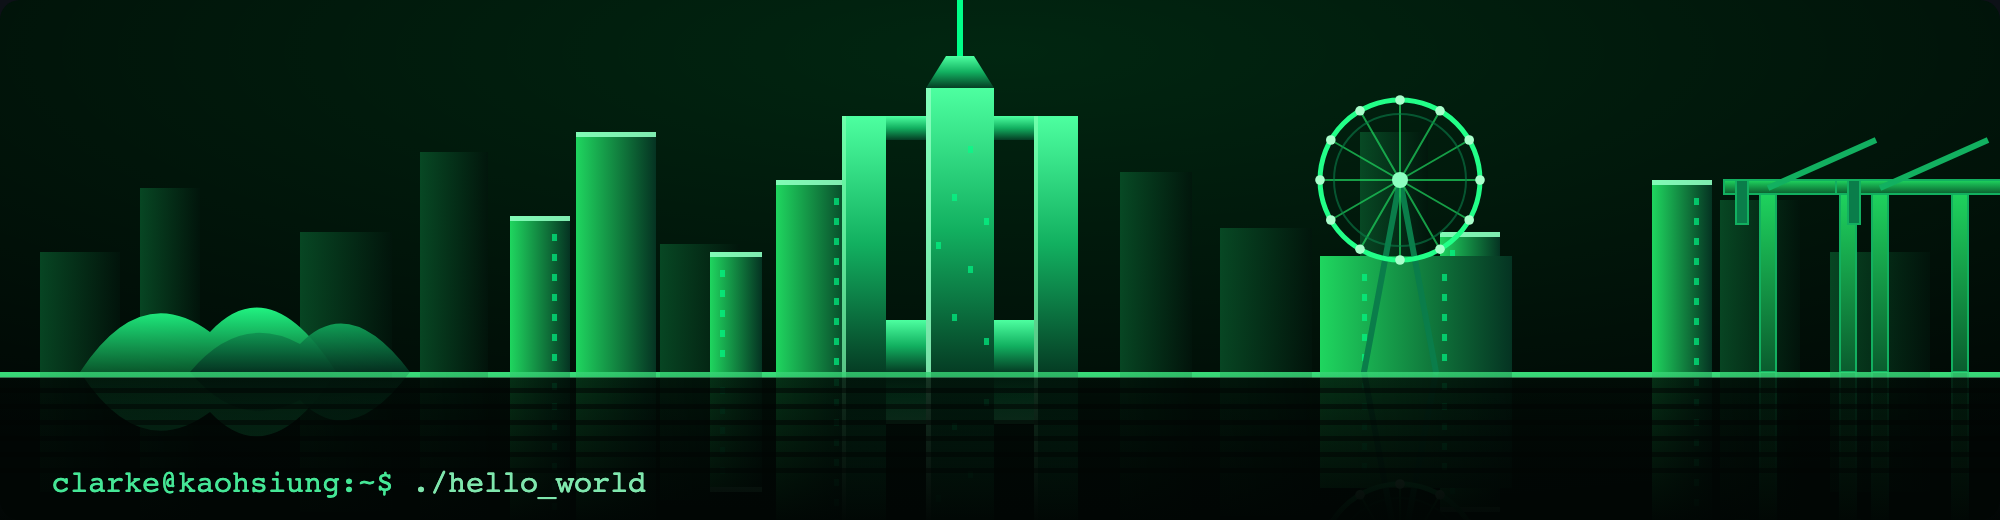
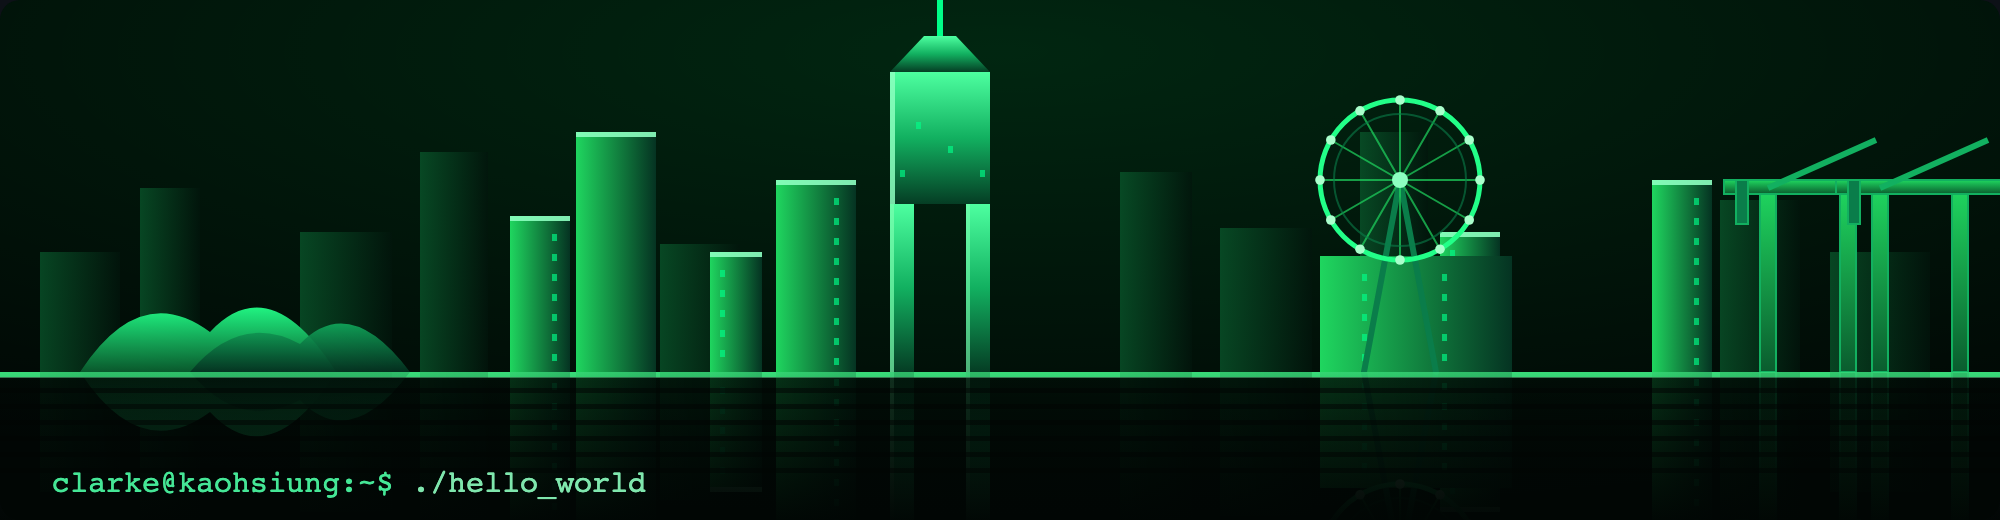
Redesign 85 Sky Tower silhouette (single shaft splitting into two legs with central void)

Changed region(s): [[0.403, 0.0, 0.558, 0.7385], [0.496, 0.7692, 0.527, 0.8308], [0.434, 0.7692, 0.465, 0.8308]]

diff --git a/scripts/gen_kaohsiung.py b/scripts/gen_kaohsiung.py
@@ -54,31 +54,25 @@ for (x, w, h) in front:
     city.append(f'<rect x="{x:.1f}" y="{top:.1f}" width="{w:.1f}" height="2.5" fill="#8dffc0" opacity="0.9"/>')  # lit top edge
     city.append(windows(x, w, top, GY))
 
-# ---- 85 Sky Tower (高 shape): two side prongs + central spire ----
-cx = 480
-TOP = 44
-side_top = GY - 128
-merge_top = GY - 26           # lower third merged (base of 高); low merge = tall sky-gaps
-c_hw, s_w, gap = 17, 22, 20
-# merged base
-city.append(rect(cx - (c_hw + gap + s_w), merge_top, 2 * (c_hw + gap + s_w), GY - merge_top, "url(#g85)"))
-# left & right prongs
-city.append(rect(cx - c_hw - gap - s_w, side_top, s_w, GY - side_top, "url(#g85)"))
-city.append(rect(cx + c_hw + gap, side_top, s_w, GY - side_top, "url(#g85)"))
-# crossbars linking prongs to centre -> encloses two "口" openings (高 shape)
-city.append(rect(cx - c_hw - gap, side_top, gap, 12, "url(#g85)"))
-city.append(rect(cx + c_hw, side_top, gap, 12, "url(#g85)"))
-# central tower (tallest)
-city.append(rect(cx - c_hw, TOP, 2 * c_hw, GY - TOP, "url(#g85)"))
+# ---- 85 Sky Tower: single upper shaft that splits into two legs (iconic central void) ----
+cx = 470
+TOP = 36
+merge_y = GY - 84             # legs split off below here
+hw, leg_w = 25, 12
+# upper single shaft
+city.append(rect(cx - hw, TOP, 2 * hw, merge_y - TOP, "url(#g85)"))
+# two legs; the gap between them (cx-13 .. cx+13) is the see-through void
+city.append(rect(cx - hw, merge_y, leg_w, GY - merge_y, "url(#g85)"))
+city.append(rect(cx + hw - leg_w, merge_y, leg_w, GY - merge_y, "url(#g85)"))
 # tapered cap + antenna
-city.append(f'<polygon points="{cx-c_hw},{TOP} {cx+c_hw},{TOP} {cx+7},{TOP-16} {cx-7},{TOP-16}" fill="url(#g85)"/>')
-city.append(f'<rect x="{cx-1.5}" y="{TOP-52}" width="3" height="36" fill="#0f8"/>')
-city.append(f'<circle cx="{cx}" cy="{TOP-54}" r="3.2" fill="#aaffcc"/>')
-# lit left edges (3D) + a few windows on central
-city.append(f'<rect x="{cx-c_hw}" y="{TOP}" width="2.5" height="{GY-TOP}" fill="#8dffc0" opacity="0.85"/>')
-city.append(f'<rect x="{cx-c_hw-gap-s_w}" y="{side_top}" width="2" height="{GY-side_top}" fill="#7dffb0" opacity="0.7"/>')
-city.append(f'<rect x="{cx+c_hw+gap}" y="{side_top}" width="2" height="{GY-side_top}" fill="#7dffb0" opacity="0.7"/>')
-city.append(windows(cx - c_hw, 2 * c_hw, TOP + 20, GY, step=12))
+city.append(f'<polygon points="{cx-hw},{TOP} {cx+hw},{TOP} {cx+8},{TOP-18} {cx-8},{TOP-18}" fill="url(#g85)"/>')
+city.append(f'<rect x="{cx-1.5}" y="{TOP-56}" width="3" height="38" fill="#0f8"/>')
+city.append(f'<circle cx="{cx}" cy="{TOP-58}" r="3.2" fill="#aaffcc"/>')
+# lit left edges (3D) + windows on the upper shaft
+city.append(f'<rect x="{cx-hw}" y="{TOP}" width="2.5" height="{merge_y-TOP}" fill="#8dffc0" opacity="0.85"/>')
+city.append(f'<rect x="{cx-hw}" y="{merge_y}" width="2" height="{GY-merge_y}" fill="#7dffb0" opacity="0.7"/>')
+city.append(f'<rect x="{cx+hw-leg_w}" y="{merge_y}" width="2" height="{GY-merge_y}" fill="#7dffb0" opacity="0.6"/>')
+city.append(windows(cx - hw, 2 * hw, TOP + 16, merge_y - 6, step=12))
 
 # ---- Kaohsiung Eye ferris wheel (right, on a mall block) ----
 wx, wy, r = 700, GY - 96, 40
